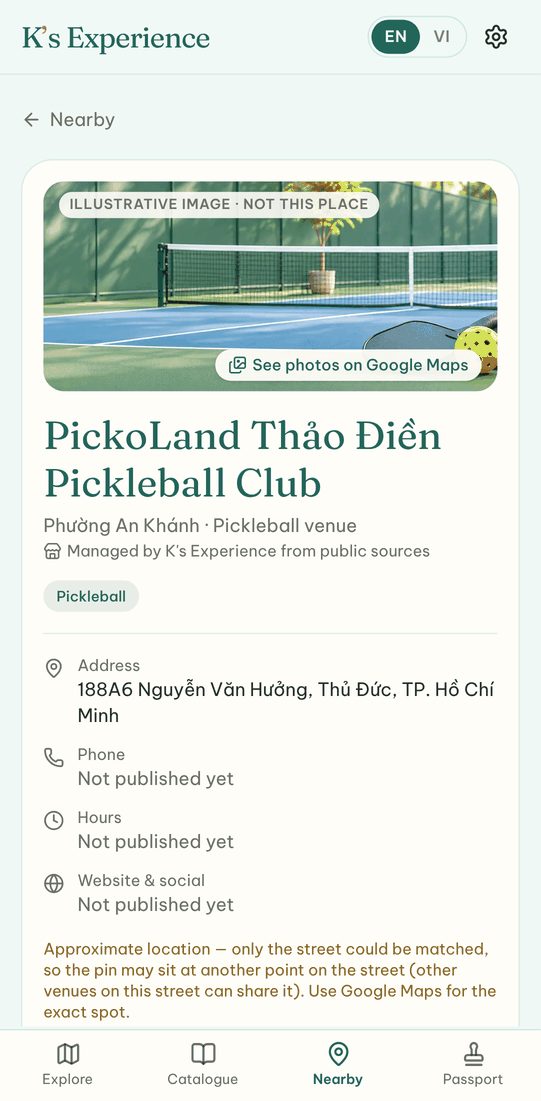
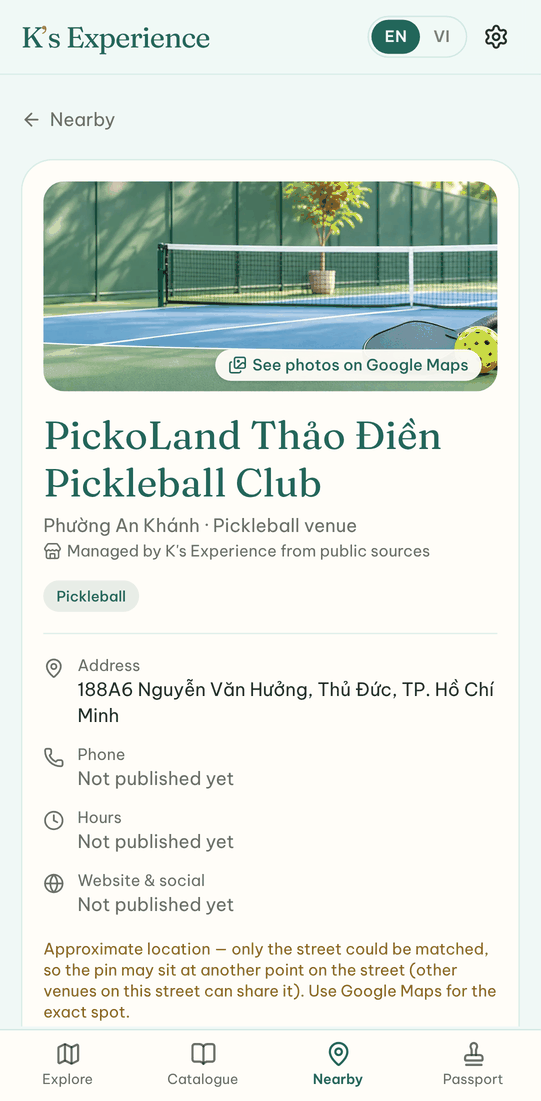
Remove the visible 'Illustrative image' label (PO); screenshots + QA
The text stays for screen readers only. Tests updated; refreshed profile
screenshots for all 7 live business types.

Claude-Session: https://claude.ai/code/session_011bBvUVQNXFDxxpazUr3hnU

Changed region(s): [[0.1183, 0.1544, 0.7098, 0.2162], [0.8577, 0.1544, 0.9168, 0.1853], [0.8872, 0.3088, 0.9168, 0.3397]]

diff --git a/src/components/business/business-profile.tsx b/src/components/business/business-profile.tsx
@@ -45,7 +45,7 @@ function HeroIllustration({ def, s, mapsUrl }: { def: BusinessTypeDef; s: Busine
       ) : (
         <svg viewBox="0 0 200 100" className="mx-auto h-32 w-full max-w-sm md:h-40" role="img" aria-label={s.illustration}>{art[def.art]}</svg>
       )}
-      <span className="absolute left-3 top-2 rounded-full bg-paper/90 px-2 py-0.5 text-[10.5px] font-semibold uppercase tracking-wider text-muted" data-testid="hero-illustrative-label">{s.illustration}</span>
+      <span className="sr-only" data-testid="hero-illustrative-label">{s.illustration}</span>
       {mapsUrl && (
         <a href={mapsUrl} target="_blank" rel="noreferrer" className="absolute bottom-2 right-3 inline-flex items-center gap-1 rounded-full bg-paper/95 px-2.5 py-1 text-xs font-medium text-forest shadow-sm hover:bg-paper" data-testid="maps-photos-link">
           <Images className="size-3.5" aria-hidden /> {s.mapsPhotos}

diff --git a/e2e/business-profile.spec.ts b/e2e/business-profile.spec.ts
@@ -5,7 +5,7 @@ test("restaurant profile: shared components, unknown contact shown honestly, onl
   await page.goto("/places/banh-mi-huynh-hoa/");
   const p = page.getByTestId("place-detail");
   await expect(p).toHaveAttribute("data-business-type", "restaurant");
-  await expect(page.getByTestId("hero-media")).toContainText("Illustrative image · not this place");
+  await expect(page.getByTestId("hero-illustrative-label")).toHaveClass(/sr-only/); // PO: no visible label; screen readers only
   await expect(page.getByTestId("hero-media")).toHaveAttribute("data-default", "image");
   await expect(page.getByTestId("hero-default-image")).toHaveAttribute("src", "/images/business-defaults/restaurant.webp");
   expect(await page.getByTestId("hero-default-image").evaluate((i: HTMLImageElement) => i.complete && i.naturalWidth)).toBeGreaterThan(0);

diff --git a/e2e-modules/business-profiles.spec.ts b/e2e-modules/business-profiles.spec.ts
@@ -40,7 +40,5 @@ test("profile layout has no horizontal overflow on mobile", async ({ page }) => 
   await page.goto("/spa/nearby/?id=mam-xoi-do-hair-spa");
   await expect(page.getByTestId("establishment-detail")).toBeVisible();
   expect(await page.evaluate(() => document.documentElement.scrollWidth <= window.innerWidth + 1)).toBe(true);
-  // the "illustrative image" label and the Google Maps photos link must not overlap on a phone
-  const a = (await page.getByTestId("hero-illustrative-label").boundingBox())!, b = (await page.getByTestId("maps-photos-link").boundingBox())!;
-  expect(a.y + a.height <= b.y || b.y + b.height <= a.y || a.x + a.width <= b.x || b.x + b.width <= a.x).toBe(true);
+  await expect(page.getByTestId("maps-photos-link")).toBeVisible();
 });

diff --git a/docs/DECISIONS.md b/docs/DECISIONS.md
@@ -81,5 +81,5 @@ Legend: **[PO?]** = needs Product Owner confirmation · **[CONFIRMED by PO]** = 
 | D76 | 2026-11-28 | **[SEC][PRODUCT]** Membership quotas are configuration in the database (migration 0014: `membership_limits`, admin-writable, public-read) and are enforced server-side by a `saved_experiences` trigger — saved references and named collections per experience, idempotent (re-saving a reference into another collection does not count), serialised per user + experience with an advisory lock (two concurrent saves at 19/20 → exactly 20). Enforcement is **off** (`membership_settings.enforce_limits = false`) until checkout and the client gate exist. Inserts only are checked, so downgrades keep every existing save; Passport history is never limited. Menu views, presets and saved locations are seeded but have no feature yet. | Blueprint 28 Nov 2026: enforce server-side across devices, no live billing yet. |
 | D77 | 2026-11-28 | **[PO][PRODUCT]** Business Profile Engine (KEX-BIZ-02, PO design catalogue): one shared profile for every business — HeroMedia (labelled illustration, never a fake venue photo), BranchIdentity, ContactFacts, ContactActions (Call / Directions / Save / Share), OfferingList with PriceEntitlement + EvidenceLabel, HoursPanel, SourceFreshness, Report correction + Claim business (Coming soon). Nine business types (restaurant, café, bar, nail salon, spa, head spa, Pilates, pickleball, boutique) only change theme, section title, type label and illustration; the type is derived from the experience, venue type and offered categories. Food `/places/[id]` and module `/<exp>/nearby/?id=` render the same engine (URLs unchanged). Unknown phone/hours/web/prices are shown as "Not published yet" / "Price not recorded". Detailed-price access goes through one function (`priceAccess`): full for everyone while limits are off; Premium / unlock rules ready for KEX-MEM-04. All profiles are platform-managed; merchant claiming, paid placements and Shopping stay disabled. The PDF's businesses and prices are design examples, not data. | PO design catalogue 28 Nov 2026. |
 | D78 | 2026-11-28 | **[PRODUCT][DATA]** Venue photos in the business profile header (KEX-BIZ-03). A photo is shown only if it shows **this** establishment (exterior, interior, signage, or something served there), was opened and checked by a person, and carries its source page, author and a reuse licence (CC BY / CC BY-SA / CC0 / public domain, or written owner permission). Never Google Maps / social-media / review-site photos without permission, never a photo of another branch or a stock image. Canonical list `data/venue-photos.json` (validated; changes by pull request) → table `venue_photos` (migration 0015; public read, editors write, audited; the seed replaces the table from the file). The header shows the photo with caption, author link and licence; no photo or a failed load → the labelled illustration. | PO request 28 Nov 2026; non-negotiable rule 1. |
-| D79 | 2026-11-28 | **[PO][DESIGN]** Default header banners per business type (restaurant, café, bar, nail salon, spa, head spa, Pilates, pickleball, boutique), supplied by the PO (`public/images/business-defaults/*.webp`, converted from the PO's PNG set). Shown when a venue has no photo of its own, always labelled "Illustrative image · not this place", with a "See photos on Google Maps" link to the venue's Maps page. Google Maps photos are not copied into the site (contributors' copyright, Google terms); the Places Photos API is the licensed option if a Maps Platform billing account is approved. | PO request 28 Nov 2026. |
+| D79 | 2026-11-28 | **[PO][DESIGN]** Default header banners per business type (restaurant, café, bar, nail salon, spa, head spa, Pilates, pickleball, boutique), supplied by the PO (`public/images/business-defaults/*.webp`, converted from the PO's PNG set). Shown when a venue has no photo of its own, with no visible label (PO 28 Nov 2026: removed; the text "Illustrative image · not this place" remains for screen readers only), with a "See photos on Google Maps" link to the venue's Maps page. Google Maps photos are not copied into the site (contributors' copyright, Google terms); the Places Photos API is the licensed option if a Maps Platform billing account is approved. | PO request 28 Nov 2026. |
 | D16 | 2026-11-27 | **[TECH]** `trailingSlash: true` for all builds; service worker never caches redirected responses. | A redirect + SW combination broke navigations (found by e2e). |

diff --git a/docs/QA_REPORT.md b/docs/QA_REPORT.md
@@ -16,6 +16,16 @@ Environment: Linux cloud container, Node 22.23.5, headless Chromium (Playwright)
 
 **Bug fixed:** the old Settings "Reset my data" (`useUser.reset()`) kept `ownerId`, so for a signed-in user the diff sync treated the emptied device as deletions and removed the account's Passport. Replaced by `clearDevice()` (detaches the device copy first) + `reloadFromAccount()`; the debounced sync also aborts if the device data no longer belongs to the account. Covered by test 6.
 
+### Addendum — default header banners + Google Maps photos link (D79)
+| Command | Result |
+| --- | --- |
+| `npx tsc --noEmit` · `npm run lint` · `npm run build` | ✅ · ✅ 0 errors · ✅ |
+| `npx vitest run` | ✅ **178 tests** (+ every business type has an existing banner) |
+| `npx playwright test` | ✅ **113 passed**, 1 pre-existing skip. One unidentified failure in an earlier run (log not captured) did not reproduce: full suite re-run 113/113, and `business-profile` + `settings` specs ×3 repeats = 60/60 |
+| `npm run test:e2e-modules` | ✅ **62 passed** (banner loads for café, bar, head spa, spa, Pilates, pickleball; Maps link visible; no overflow at 390 px) |
+
+Screenshots: `docs/screenshots/business-profiles/*-desktop.png`, `*-mobile.png`. Visible "Illustrative image" label removed at the PO's request (screen-reader text kept).
+
 ### Addendum — venue photos in the profile header (D78, KEX-BIZ-03)
 | Command | Result |
 | --- | --- |
